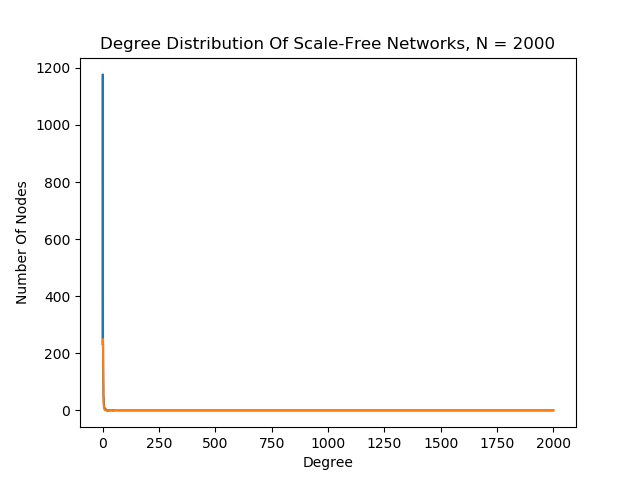
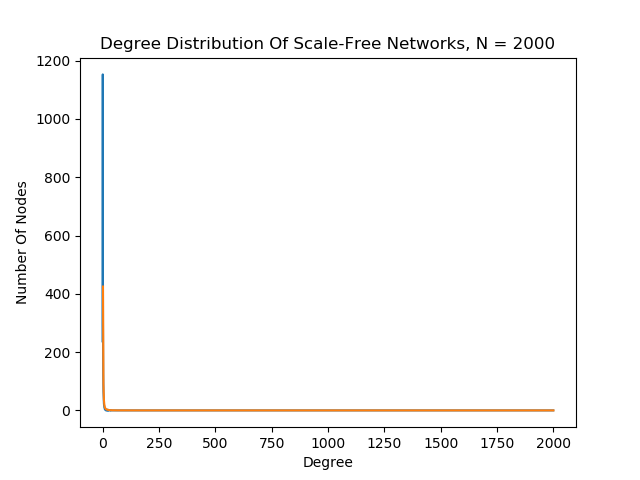
Completed the analysis of Scale-Free networks, degree distribution.

diff --git a/Scale-Free Networks - Degree Distribution.py b/Scale-Free Networks - Degree Distribution.py
@@ -40,47 +40,117 @@ for i in range(len(degreeDistribution)):
     if (np.isfinite(array2[i]) == False):    array2[i] = 0
 '''
 
-array1 = np.nan_to_num(np.log(degreeDistribution[0, :]))
-array2 = np.nan_to_num(np.log(degreeDistribution[1, :]))
-estimatedGammaValue = -2.85
-estimatedIntercept = 0
+
+array1, array2 = IO.CleanArraysOfZeroValues(degreeDistribution[0, :], degreeDistribution[1, :])
+array1 = np.log(array1)
+array2 = np.log(array2)
+estimatedGammaValue = -3
+estimatedIntercept = 3.3
 popt, pcov = curve_fit(
                         Distribution_Analysis_Functions.StraightLine,
                         array1,
                         array2,
-                        estimatedGammaValue,
-                        estimatedIntercept)
+                        (estimatedGammaValue, estimatedIntercept))
 
 newDegreeArray = np.linspace(0, N, 1000)
-#popt[0] = estimatedGammaValue
+
 
 plt.plot(newDegreeArray, N*Distribution_Analysis_Functions.ExponentialTail(newDegreeArray, popt[0]))
 
 print(popt[0])
+print(popt[1])
 plt.xlabel('Degree')
 plt.ylabel('Number Of Nodes')
 plt.title('Degree Distribution Of Scale-Free Networks, N = ' + str(N))
-plt.savefig("Scale-Free Networks - Degree Distribution.png")
-
-
+plt.savefig("NetworkTypes/ScaleFree_Network/Scale-Free Networks - Degree Distribution.png")
 
 
 plt.figure("Scale-Free Networks - LogLog Degree Distribution")
-plt.loglog(degreeDistribution[0, :], degreeDistribution[1, :], 'o')
+plt.plot(array1, array2, 'o', label='Data')
 
-newDegreeArray(0, np.log(N), 1000)
-plt.plot(newDegreeArray, N *Distribution_Analysis_Functions.StraightLine(newDegreeArray, popt[0], popt[1]))
+newArray = np.linspace(array1[0], array1[-1], 1000)
+plt.plot(newArray, Distribution_Analysis_Functions.StraightLine(newArray, popt[0], popt[1]), label='Line Of Best Fit')
 
+plt.legend(loc='best')
 plt.xlabel('Degree')
 plt.ylabel('Number Of Nodes')
 plt.title('Log-Log Degree Distribution Of Scale-Free Networks, N = ' + str(N))
-plt.savefig("Scale-Free Networks - LogLog Degree Distribution.png")
+plt.savefig("NetworkTypes/ScaleFree_Network/Scale-Free Networks - LogLog Degree Distribution.png")
 
 
 #------------------------------------------------------------------------------------------
 # This section fits an exponential to the power-tails of various scale-free networks.
 #------------------------------------------------------------------------------------------
 
+N_Array = np.arange(50, 2050, 50)
 
+gammaArray = np.zeros(len(N_Array))
+gammaErrorsArray = np.zeros(len(N_Array))
+interceptArray = np.zeros(len(N_Array))
+interceptErrorsArray = np.zeros(len(N_Array))
 
+for i in range(len(N_Array)):
+
+    numberOfRepeats = 10
+
+    sumGamma = 0
+    sumGammaError = 0
+    sumIntercept = 0
+    sumInterceptError = 0
+
+    for j in range(numberOfRepeats):
+
+        adjacencyMatrix = ScaleFree_Network.GenerateAdjacencyMatrix(N_Array[i])
+        degreeDistribution = Distribution_Analysis_Functions.DegreeDistributionData(adjacencyMatrix)
+
+        array1, array2 = IO.CleanArraysOfZeroValues(degreeDistribution[0, :], degreeDistribution[1, :])
+        array1 = np.log(array1)
+        array2 = np.log(array2)
+        estimatedGammaValue = -3
+        estimatedIntercept = 3.3
+        popt, pcov = curve_fit(
+                            Distribution_Analysis_Functions.StraightLine,
+                            array1,
+                            array2,
+                            (estimatedGammaValue, estimatedIntercept))
+        pvar = np.diag(pcov)
+
+        sumGamma += popt[0]
+        sumGammaError += np.sqrt(pvar[0])
+        sumIntercept += popt[1]
+        sumInterceptError += np.sqrt(pvar[1])
+
+    gammaArray[i] = sumGamma / numberOfRepeats
+    gammaErrorsArray[i] = sumGammaError / numberOfRepeats
+    interceptArray[i] = sumIntercept / numberOfRepeats
+    interceptErrorsArray[i] = sumInterceptError / numberOfRepeats
+
+    print(str(N_Array[i]) + ' DONE')
+
+fileDestination = 'NetworkTypes/ScaleFree_Network/Gamma Values For Scale-Free Networks (Varying N)'
+IO.WritePlottingDataToTxtFile(fileDestination, 'Number Of Nodes', N_Array, 'Gamma', gammaArray)
+
+fileDestination = 'NetworkTypes/ScaleFree_Network/Gamma Errors For Scale-Free Networks (Varying N)'
+IO.WritePlottingDataToTxtFile(fileDestination, 'Number Of Nodes', N_Array, 'Gamma Errors', gammaArray)
+
+#
+plt.figure()
+plt.plot(N_Array, gammaArray, 'o')
+
+plt.grid()
+plt.ylim(-2.5, -1.2)
+plt.xlabel('Number Of Nodes')
+plt.ylabel('Gamma Value')
+plt.title('Gamma Exponent Constant Of Scale-Free Networks (Varying N)')
+plt.savefig("NetworkTypes/ScaleFree_Network/Gamma Exponent Constant Of Scale-Free Networks (Varying N).png")
+
+#
+plt.figure()
+plt.plot(N_Array, gammaErrorsArray, 'o')
+
+plt.grid()
+plt.xlabel('Number Of Nodes')
+plt.ylabel('Gamma Value Error')
+plt.title('Gamma Exponent Error Of Scale-Free Networks (Varying N)')
+plt.savefig("NetworkTypes/ScaleFree_Network/Gamma Exponent Error Of Scale-Free Networks (Varying N).png")
 

diff --git a/SupportingFunctions/Input_Output_Support_Functions.py b/SupportingFunctions/Input_Output_Support_Functions.py
@@ -53,4 +53,24 @@ def CleanRepeatedValuesOfNetworkRepData(inputArray1, inputArray2):
         return outputArray1, outputArray2
 
 
+def CleanArraysOfZeroValues(inputArray1, inputArray2):
+        
+        #
+        outputArray1 = []
+        outputArray2 = []
+
+        #
+        for i in range(len(inputArray1)):
+
+                if ((inputArray1[i] != 0) and (inputArray2[i] != 0)):
+
+                        outputArray1.append(inputArray1[i])
+                        outputArray2.append(inputArray2[i])
+        
+        outputArray1 = np.array(outputArray1)
+        outputArray2 = np.array(outputArray2)
+        
+        return outputArray1, outputArray2
+
+
 
